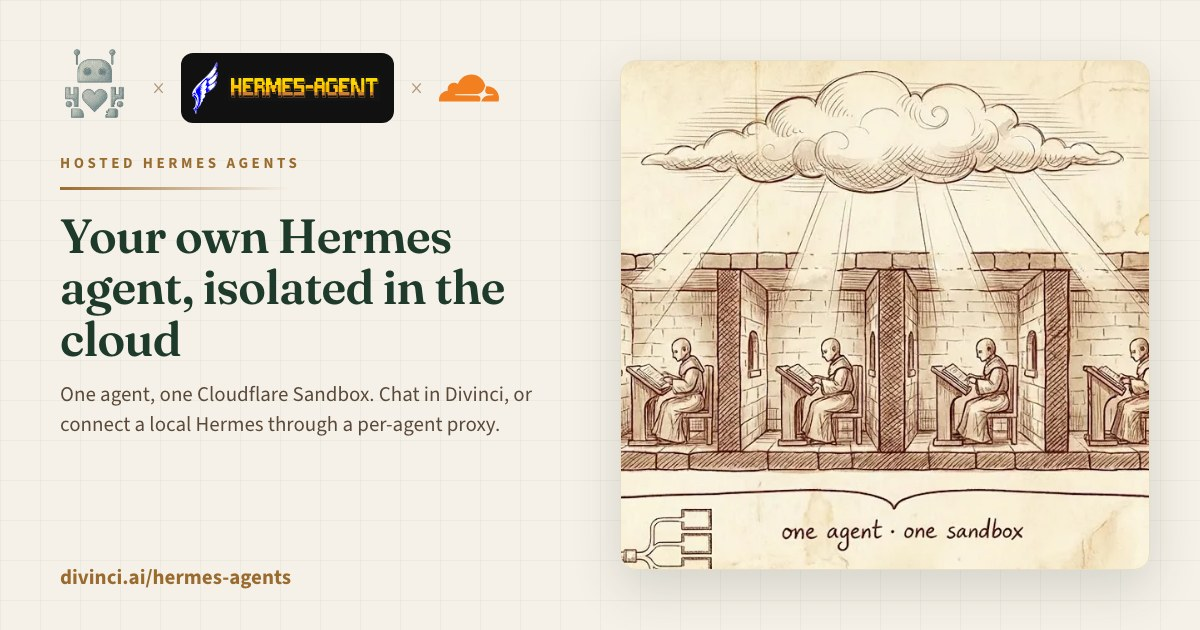
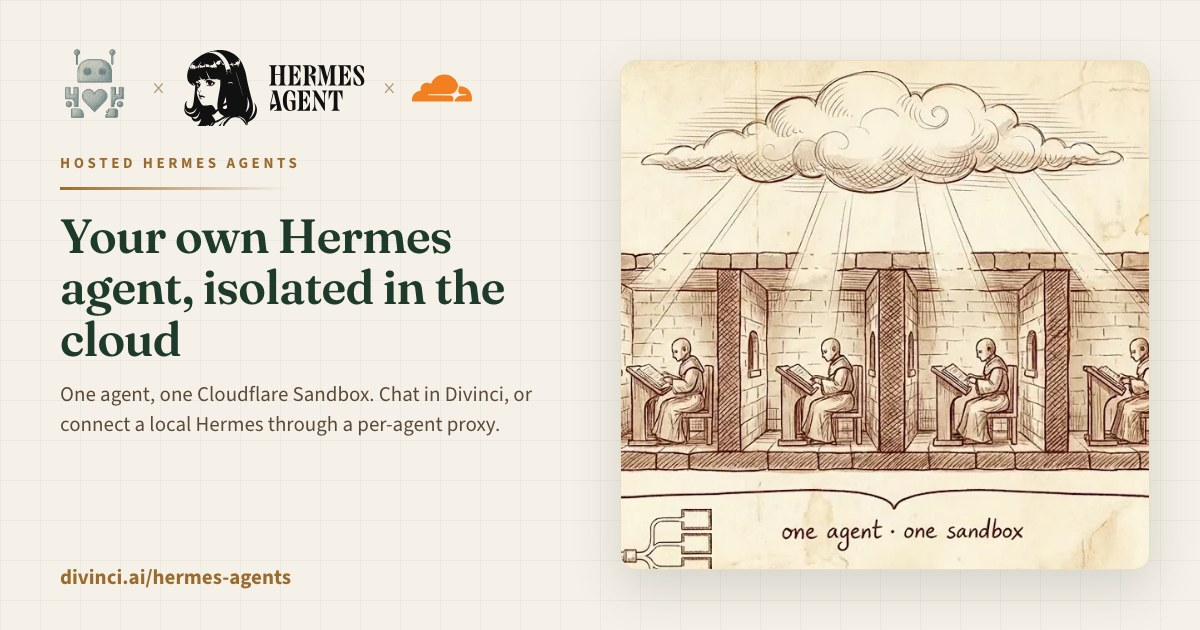
feat(og): Hermes cards use the LobeHub Hermes Agent mark and wordmark
Replaces the wing + pixel wordmark with the Hermes Agent girl mark and the
stacked HERMES AGENT wordmark from @lobehub/icons-static-svg (MIT).

Claude-Session: https://claude.ai/code/session_01E9FmEuWsu7KX6kWNWKphx7

Changed region(s): [[0.1233, 0.0603, 0.4317, 0.2111]]

diff --git a/site/static/brand/vendors/README.md b/site/static/brand/vendors/README.md
@@ -46,7 +46,7 @@ Vertex AI reuses `/brand/companies/google.svg`, already in the repo.
 
 Used by `scripts/gen-hermes-og.mjs` for the Hosted Hermes social cards.
 
-- `hermes-agent-wing.svg`: the wing mark served on https://hermes-agent.nousresearch.com
-  (`web-assets.nousresearch.com/.../hermes-landing/teams/hermes-wing.*.svg`).
-- `hermes-agent-wordmark.png`: `website/static/img/hermes-agent-banner.png` from
-  the MIT-licensed https://github.com/NousResearch/hermes-agent repo.
+- `hermes-agent-mark.svg` and `hermes-agent-text.svg`: `hermesagent.svg` and
+  `hermesagent-text.svg` from @lobehub/icons-static-svg (MIT,
+  https://lobehub.com/icons/hermesagent). `currentColor` set to `#111` and the
+  1em sizing removed so they render as standalone images.
